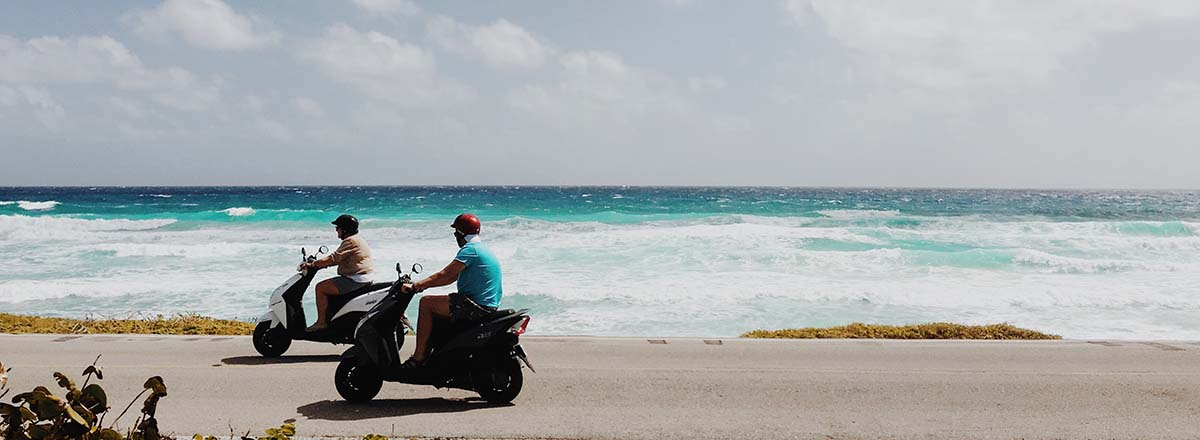
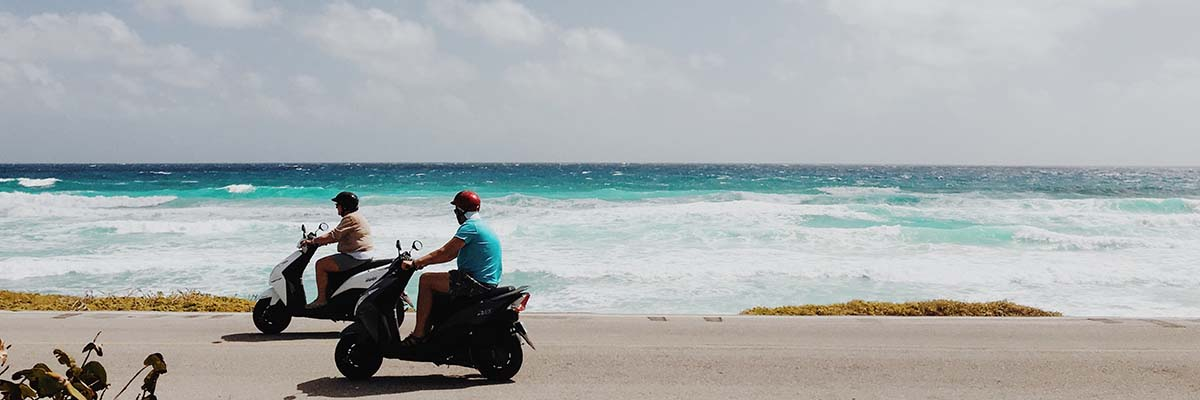
.

diff --git a/scoots/rentals.html b/scoots/rentals.html
@@ -1,0 +1,96 @@
+
+<!DOCTYPE html>
+<html lang="en">
+
+<head>
+  <meta charset="UTF-8" />
+  <meta name="viewport" content="width=device-width, initial-scale=1.0" />
+  <title>Scoots rental page</title>
+  <meta name="description" content="Scoots's home page with rental information" />
+  <meta name="format-detection" content="telephone=no" />
+  <link rel="shortcut icon" href="favicon.ico" />
+  <link rel="stylesheet" href="css/normalize.css">
+  <link rel="stylesheet" href="css/small.css">
+  <link rel="stylesheet" href="css/medium.css">
+  <link rel="stylesheet" href="css/large.css">
+</head>
+
+<body>
+  <div class="weatheralert">
+    <p>Weather alert: <span id="alert"></span><span id="alertdesc"></span></p>
+  </div>
+  <header>
+      <h1>Scoots</h1>
+      <p class="subhead">Where your next adventure begins</p>
+  </header>
+  <main>
+    <nav class="clearfix">
+      <button onclick="toggleMenu()">&#9776;</button>
+      <ul id="primaryNav" class="hide">
+        <li><a href="home.html">Home</a></li>
+        <li class="active"><a href="rentals.html">Rentals</a></li>
+        <li><a href="reservation.html">Reserve</a></li>
+        <li><a href="tours.html">Tours</a></li>
+        <li><a href="contact.html">Contact</a></li>
+      </ul>
+    </nav>
+    <div class="herodiv">
+      <picture>
+        <source srcset="images/scooters-small.jpg" media="(max-width:600px)" />
+        <source srcset="images/scooters-medium.jpg" media="(max-width:1024px)" />
+        <img class="hero-ph" src="images/scooters-large.jpg" alt="2 guys riding scooters" />
+      </picture>
+      <a class="button calltoaction">Book Now</a>
+    </div>
+<footer>
+  <h2 class="cursive">Scoots</h2>
+  <div class="contact">
+    <div class="contact1">
+      <h3>Playa del Carmen Location</h3>
+      <div class="contactItem address">
+        <img src="images/location32.png" alt="location marker" />
+        <p>Av. Rafael E. Melgar, Centro, 77600 <br>San Miguel de Cozumel, Q.R., Mexico
+      </div>
+      <div class="contactItem phone">
+        <img src="images/phone32.png" alt="mobile phone icon" />
+        <p>+52 987 878 4391</p>
+      </div>
+    </div>
+    <div class="contact1">
+      <h3>Puerta Maya Location</h3>
+      <div class="contactItem address">
+        <img src="images/location32.png" alt="location marker" />
+        <p>Carretera Costera Sur, 77600 <br>San Miguel de Cozumel, Q.R., Mexico
+      </div>
+      <div class="contactItem phone">
+        <img src="images/phone32.png" alt="mobile phone icon" />
+        <p>+52 987 869 1984</p>
+      </div>
+    </div>
+    <div class="contactItem email">
+      <img src="images/email32.png" alt="email icon" />
+      <p>miguel@scootscozumel.com</p>
+    </div>
+    <div class="social">
+      <a target="_blank" rel="noreferrer" href="https://www.facebook.com/"><img src="images/facebook32.png"
+          alt="facebook icon" /></a>
+      <a target="_blank" rel="noreferrer" href="https://www.pinterest.com/"><img src="images/pinterest32.png"
+          alt="pinterest icon" /></a>
+      <a target="_blank" rel="noreferrer" href="https://twitter.com//"><img src="images/twitter32.png"
+          alt="twitter icon" /></a>
+      <a target="_blank" rel="noreferrer" href="https://www.instagram.com/"><img src="images/instagram32.png"
+          alt="instagram icon" /></a>
+    </div>
+  </div>
+  <p>
+    &copy;<span id="current-date"></span>
+  </p>
+  <p>
+    <small>Last Updated:<span id="last-updated"></span> </small>
+  </p>
+</footer>
+<script src="https://ajax.googleapis.com/ajax/libs/webfont/1.6.26/webfont.js"></script>
+<script src="js/common.js"></script>
+<script src="js/weather.js"></script>
+</body>
+</html>

diff --git a/scoots/home.html b/scoots/home.html
@@ -5,7 +5,7 @@
   <meta charset="UTF-8" />
   <meta name="viewport" content="width=device-width, initial-scale=1.0" />
   <title>Scoots home page</title>
-  <meta name="description" content="Scoots's home page with retnal summary, weather, and locations" />
+  <meta name="description" content="Scoots's home page with rental summary, weather, and locations" />
   <meta name="format-detection" content="telephone=no" />
   <link rel="shortcut icon" href="favicon.ico" />
   <link rel="stylesheet" href="css/normalize.css">
